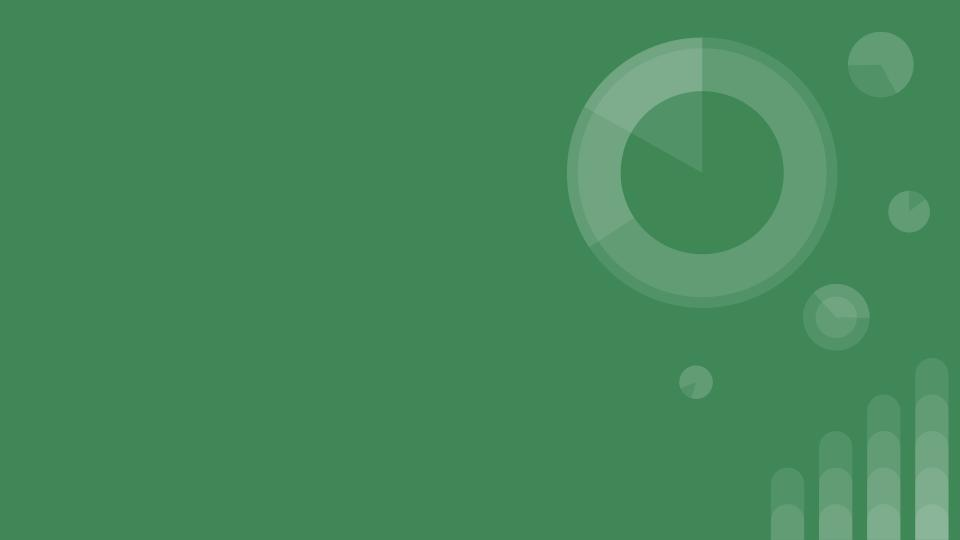
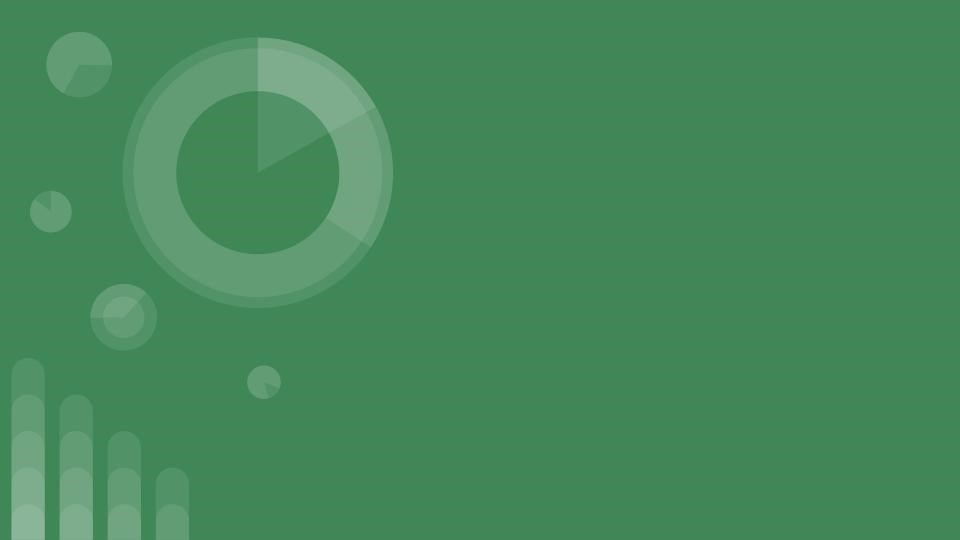
added background and styling to budgets page

diff --git a/client/src/pages/Dashboard.jsx b/client/src/pages/Dashboard.jsx
@@ -42,10 +42,28 @@ function Dashboard() {
     }
 
     return (
-        <div className="d-flex flex-column align-items-center">
-            <div>Hello {user}</div>
-            <div>My Budgets</div>
-            <BudgetList budgets={data.user.budgets}></BudgetList>
+        <div className="bg-image justify-content-center opacity-75 p-4 border border-1 border-success rounded p-4 shadow"
+        style={{
+          backgroundImage: "url(/assets/images/dashboard-bg.jpg)",
+          height: "100vh",
+          width: "100vw",
+          bakgroundSize: 'cover',
+          backgroundRepeat: 'no-repeat',
+          webkitBackgroundSize: 'cover',
+          mozBackgroundSize: 'cover',
+          oBackgroundSize: 'cover',
+
+        }}>
+        
+            <div className="row align-items-center row w-100 justify-content-center mt-4 p-4">
+                <h1 className= "col-3 bg-white text-center rounded bolder shadow border border-1 border-success">Hello {user}!</h1>
+                <div className= "col-2"></div>
+                <div className="col-5 border border-1 border-success rounded p-4 shadow bg-light">
+                <h2 className="border border-1 border-success rounded text-center"><i className="bi bi-cash"></i> MY BUDGETS</h2>
+                <BudgetList budgets={data.user.budgets}></BudgetList>
+                </div>     
+            </div>
+
         </div>
     )
 

diff --git a/client/src/components/BudgetList/index.jsx b/client/src/components/BudgetList/index.jsx
@@ -5,11 +5,11 @@ const BudgetList = (props) => {
     var budgets = Object.values(props)[0];
     console.log(budgets);
     return (
-        <>
+        <div className= "text-center border border-dark rounded p-2">
             {budgets ?
                 budgets.map((budget, index) => ( <div key={index}><Link to={`/home/${budget._id}`}>Created on: {budget.month + '/' + budget.year} Budget Total: {budget.total}</Link></div>)) : <div>No Budgets</div>  
             }
-        </>
+        </div>
 
     )
 }

diff --git a/client/src/index.css b/client/src/index.css
@@ -42,6 +42,7 @@ h6 {
 
 h1 {
   font-size: 2.25rem;
+  color: navy;
 }
 
 h2 {
